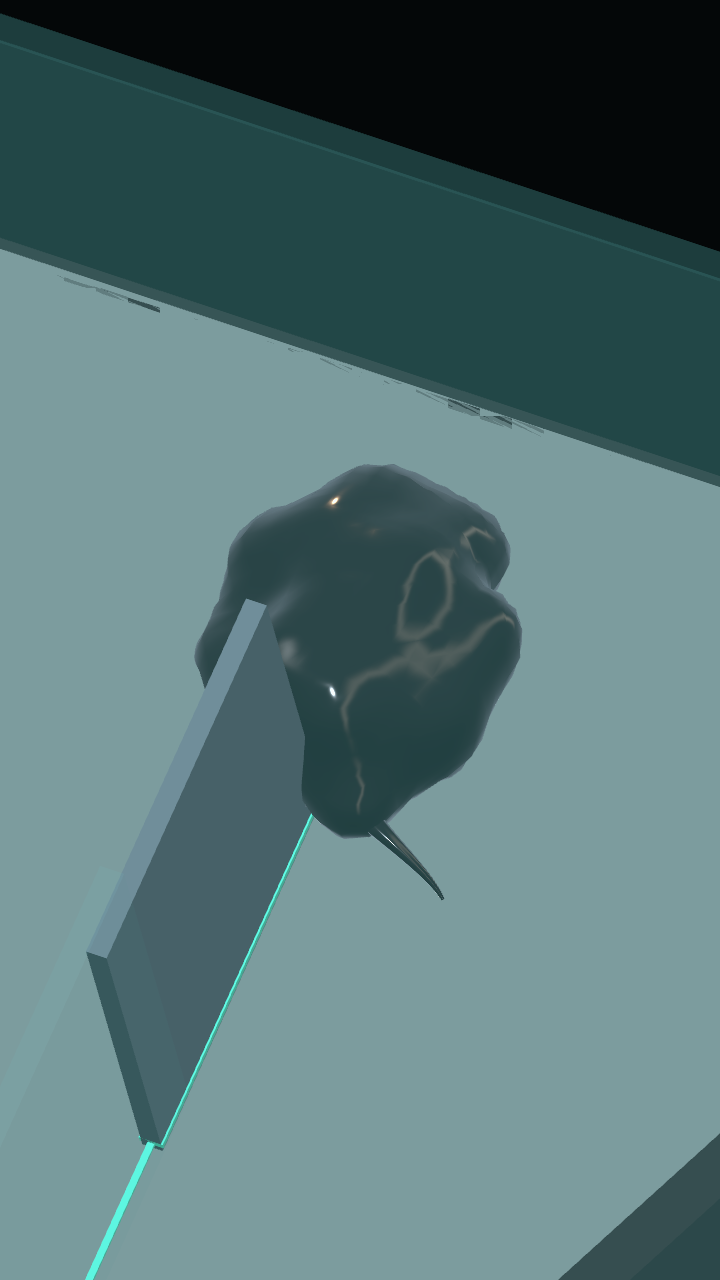
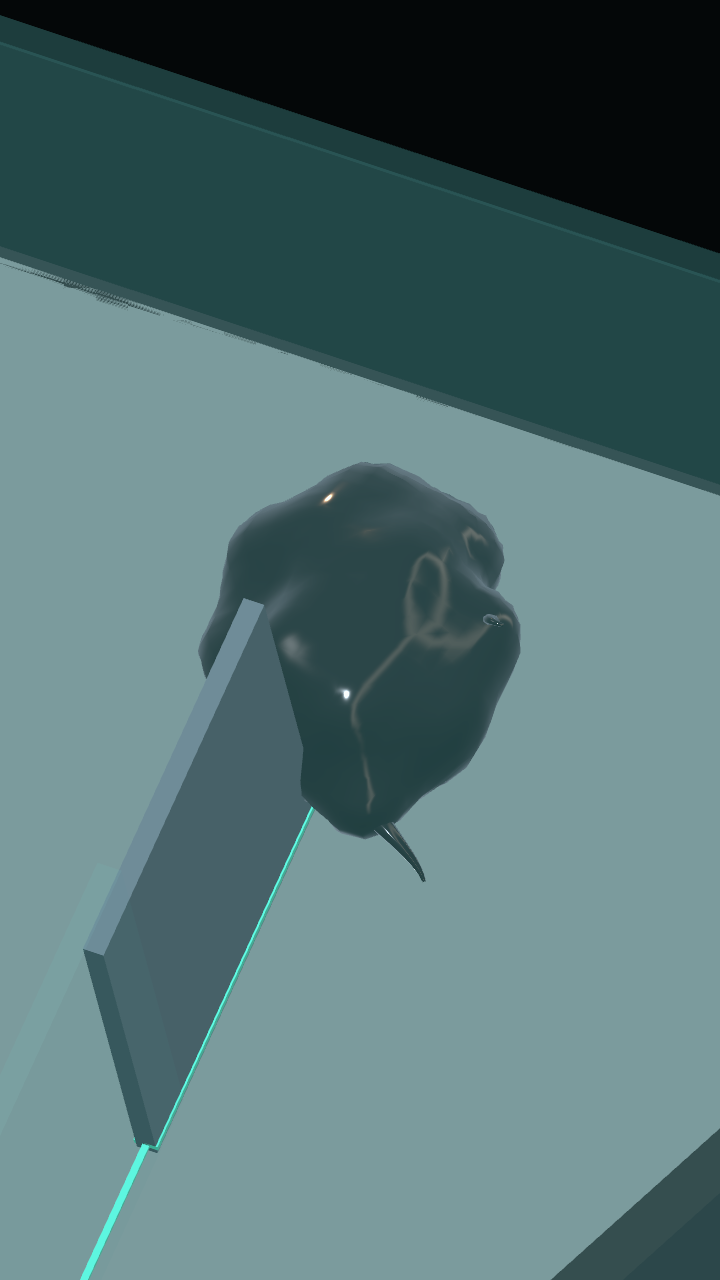
Give Venom raised tendrils and playful idle stretches

diff --git a/Assets/_Game/Venom/Runtime/VenomLifeAnimation.cs b/Assets/_Game/Venom/Runtime/VenomLifeAnimation.cs
@@ -12,7 +12,12 @@ namespace GravityBox.Venom
     /// </summary>
     public sealed class VenomLifeAnimation : MonoBehaviour
     {
-        private const int Arms = 5, Segments = 12, Sides = 7;
+        private const int Arms = 5, Gestures = 4, Segments = 12, Sides = 7;
+        private sealed class Gesture
+        {
+            public float Start, Duration, NextAt;
+            public int Cycle;
+        }
         private sealed class Foot
         {
             public Collider Surface;
@@ -23,14 +28,18 @@ namespace GravityBox.Venom
         private sealed class Fragment
         {
             public readonly Foot[] Feet = new Foot[Arms];
+            public readonly Gesture[] Gestures = new Gesture[VenomLifeAnimation.Gestures];
             public bool Seen;
             public int Count, Peeks;
             public float IdleTime, NextPeek, PeekStart = -100, PeekLength = 3, Head, Moving, Speed, Flow;
+            public float DanceStart = -100, DanceLength = 3.8f, NextDance, Dance, Squeezing;
             public Vector3 Up = Vector3.up, Forward = Vector3.forward, Probe = Vector3.forward, Lag, LagRate;
             public Fragment(int key, float time)
             {
                 NextPeek = 1.8f + Noise(key)*1.2f;
+                NextDance = time+5.2f+Noise(key+71)*1.6f;
                 for (int i = 0; i < Arms; i++) Feet[i] = new Foot { WaitUntil = time+Noise(key+i*19)*.7f };
+                for (int i = 0; i < Gestures.Length; i++) Gestures[i] = new Gesture { Start = -100, NextAt = time+.25f+Noise(key+i*23)*.9f };
             }
         }
         public readonly struct Plant
@@ -54,6 +63,8 @@ namespace GravityBox.Venom
         public float HeadHeight { get; private set; }
         public int TendrilCount { get; private set; }
         public float CrawlAmount { get; private set; }
+        public float DanceAmount { get; private set; }
+        public int RaisedTendrilCount { get; private set; }
         public IReadOnlyList<Plant> PlantedFeet => plants;
 
         public void Initialize(CohesiveOrganism source, VenomLevelController owner)
@@ -74,7 +85,7 @@ namespace GravityBox.Venom
             previousSimulationTime = time;
             clock += dt;
             vertices.Clear(); normals.Clear(); triangles.Clear(); plants.Clear();
-            HeadAmount = HeadHeight = CrawlAmount = 0; TendrilCount = 0;
+            HeadAmount = HeadHeight = CrawlAmount = DanceAmount = 0; TendrilCount = RaisedTendrilCount = 0;
             foreach (var fragment in fragments) if (fragment != null) fragment.Seen = false;
         }
         // Up to six extra field sources form a crest, not another simulated body.
@@ -86,8 +97,11 @@ namespace GravityBox.Venom
             if (state.Count != count)
             {
                 state.Head = state.IdleTime = 0; state.PeekStart = -100;
+                state.Dance = 0; state.DanceStart = -100; state.NextDance = clock+5.2f+Noise(key+71)*1.6f;
                 state.Lag = state.LagRate = Vector3.zero;
                 foreach (var foot in state.Feet) foot.Surface = null;
+                for(int g=0;g<state.Gestures.Length;g++)
+                { state.Gestures[g].Start=-100;state.Gestures[g].NextAt=clock+.25f+Noise(key+g*23)*.9f; }
             }
             state.Count = count;
             Vector3 centre = Vector3.zero, velocity = Vector3.zero, up = Vector3.zero, floorPoint = Vector3.zero;
@@ -121,6 +135,10 @@ namespace GravityBox.Venom
             Vector3 tangentVelocity = Vector3.ProjectOnPlane(velocity,up);
             state.Speed = Mathf.Lerp(state.Speed,tangentVelocity.magnitude,1-Mathf.Exp(-dt*10));
             Vector3 crawlIntent = level.Locomotion != null ? level.Locomotion.IntentForParticle(ids[0]) : Vector3.zero;
+            state.Squeezing = 0;
+            if(level.Locomotion != null)
+                foreach(var fragment in level.Locomotion.Fragments)
+                    if(fragment.Group==organism.Groups[ids[0]])state.Squeezing=fragment.Squeeze.Amount;
             float moving = grounded ? Mathf.Max(Smooth(.010f,.065f,state.Speed),crawlIntent.magnitude*.75f) : 0;
             state.Moving = Mathf.MoveTowards(state.Moving,moving,dt*(grounded ? 4 : 12));
             // The intended direction follows flow/downhill, never the game camera.
@@ -129,11 +147,21 @@ namespace GravityBox.Venom
                 state.Forward = Vector3.Slerp(state.Forward,intent.normalized,1-Mathf.Exp(-dt*5));
             state.Forward = Vector3.ProjectOnPlane(state.Forward,up).normalized;
             if (state.Forward.sqrMagnitude < .1f) state.Forward = Vector3.ProjectOnPlane(box.transform.forward,up).normalized;
-            state.Flow += dt*(.12f + state.Speed*8);
+            state.Flow += dt*(.24f + state.Speed*8);
             if (dt > 0)
                 state.Lag = Vector3.SmoothDamp(state.Lag,Vector3.ClampMagnitude(-tangentVelocity*.055f,.009f),
                     ref state.LagRate,.19f,Mathf.Infinity,dt);
             state.IdleTime = grounded && state.Speed < .024f && crawlIntent.sqrMagnitude < .001f ? state.IdleTime+dt : 0;
+            bool canDance = grounded && count >= 8 && state.Speed < .024f && crawlIntent.sqrMagnitude < .001f && state.Squeezing < .05f;
+            if(canDance && state.IdleTime>.6f && clock>=state.NextDance)
+            {
+                state.DanceStart=clock;state.DanceLength=3.6f+Noise(key+state.Peeks*13)*.8f;
+                state.NextDance=clock+organism.Profile.DanceInterval*Mathf.Lerp(.85f,1.25f,Noise(key+state.Peeks*43));
+            }
+            float danceTime=(clock-state.DanceStart)/state.DanceLength;
+            float danceEnvelope=Smooth(.08f,.32f,danceTime)*(1-Smooth(.73f,1,danceTime));
+            state.Dance=Mathf.MoveTowards(state.Dance,canDance?danceEnvelope:0,dt*5);
+            DanceAmount=Mathf.Max(DanceAmount,state.Dance);
             if (grounded && count >= 8 && state.IdleTime > state.NextPeek)
             {
                 state.PeekStart = clock; state.IdleTime = 0; state.Peeks++;
@@ -143,7 +171,7 @@ namespace GravityBox.Venom
             }
             float peek = (clock-state.PeekStart)/state.PeekLength;
             float envelope = Smooth(0,.28f,peek)*(1-Smooth(.58f,1,peek));
-            float targetHead = grounded && state.Speed < .024f && count >= 8 ? envelope : 0;
+            float targetHead = grounded && state.Speed < .024f && crawlIntent.sqrMagnitude < .001f && count >= 8 && state.Squeezing < .05f ? envelope : 0;
             state.Head = Mathf.MoveTowards(state.Head,targetHead,dt*3.5f);
             if (!grounded) foreach (var foot in state.Feet) foot.Surface = null;
 
@@ -159,30 +187,48 @@ namespace GravityBox.Venom
                 FlowBody(state,key,points,count,centre,up,top,bottom,floorPoint);
                 DrawFeet(state,key,points,ids,count,centre,up,floorPoint,support);
             }
-            if (state.Head < .008f) return count;
+            int physicalCount=count;
+            float expression=Mathf.Max(state.Head,state.Dance);
+            if (expression < .008f)
+            {
+                if(grounded)DrawGestures(state,key,points,physicalCount,centre,up,floorPoint,0);
+                return count;
+            }
             // An off-centre, broad fold gathers upward, hesitates, then rolls back.
             // Its asymmetric bend conveys curiosity without a permanent face/neck.
             Vector3 forward = Vector3.ProjectOnPlane(state.Probe,up).normalized;
             forward = Quaternion.AngleAxis((Smooth(.28f,.48f,peek)-Smooth(.57f,.86f,peek))*26,up)*forward;
             Vector3 anchor = centre + up*(top*.45f) + forward*.006f;
-            float lift = organism.Profile.CuriousHeadLift*state.Head;
+            float desiredLift = Mathf.Max(organism.Profile.CuriousHeadLift*state.Head,organism.Profile.DanceLift*state.Dance);
+            float lift = desiredLift;
             Vector3 direction = (up+forward*.42f).normalized;
             Vector3 side = Vector3.Cross(up,forward).normalized;
             float clearance = lift+.03f;
             for (int p = -1; p <= 1; p++)
                 if (level.RaycastBoundary(anchor+side*(p*.014f),direction,clearance,out var hit)) clearance = hit.distance;
             lift = Mathf.Min(lift,Mathf.Max(0,clearance-.026f));
-            float head = Mathf.Min(state.Head,lift/Mathf.Max(.001f,organism.Profile.CuriousHeadLift));
+            float head = expression*Mathf.Clamp01(lift/Mathf.Max(.001f,desiredLift));
             HeadAmount = Mathf.Max(HeadAmount,head); HeadHeight = Mathf.Max(HeadHeight,lift);
-            if (head < .02f) return count;
+            if (head < .02f)
+            {
+                if(grounded)DrawGestures(state,key,points,physicalCount,centre,up,floorPoint,0);
+                return count;
+            }
             for (int j = 0; j < 6; j++)
             {
                 float t = j/5f;
                 Vector3 source = anchor+up*(lift*t)+forward*(lift*.48f*t*t);
+                float beat=(clock-state.DanceStart)*6.8f;
+                source += (side*Mathf.Sin(beat-t*1.8f)*.012f+forward*Mathf.Sin(beat*.73f-t)*.007f)*state.Dance*t*t;
+                // Keep the growing crest on this side of nearby apparatus.
+                Vector3 growth=source-anchor;
+                if(growth.sqrMagnitude>1e-10f && level.RaycastBoundary(anchor,growth.normalized,growth.magnitude+.015f,out var obstruction))
+                    source=anchor+growth.normalized*Mathf.Max(0,obstruction.distance-.015f);
                 points[count] = transform.InverseTransformPoint(source);
                 supports[count] = Mathf.Lerp(.029f,.018f,t);
                 weights[count++] = head*Mathf.Lerp(.8f,.62f,t);
             }
+            if(grounded)DrawGestures(state,key,points,physicalCount,centre,up,floorPoint,lift*state.Dance);
             return count;
         }
 
@@ -223,10 +269,14 @@ namespace GravityBox.Venom
                 float stretch = 1+state.Moving*.28f;
                 Vector3 shape = forward*(x*(stretch-1)) + (side*z+up*height)*(1/Mathf.Sqrt(stretch)-1);
                 Vector3 shift = state.Lag*upper + up*fold - forward*(lobe*.003f*upper);
+                // The shoulders sway out of phase with the higher crest, keeping
+                // the base planted while the upper tissue dances.
+                float beat=(clock-state.DanceStart)*6.8f;
+                shift += (side*Mathf.Sin(beat-height*18)*.008f+up*Mathf.Sin(beat*2)*.003f)*upper*state.Dance;
                 // A crest borrows its shoulder shape from the body rather than
                 // looking like a sphere on a separately inflated stalk.
                 shift += forward*(state.Head*.006f*upper)-up*(state.Head*.002f*(1-upper));
-                deformation[i] = Vector3.ClampMagnitude(shape+shift,.014f);
+                deformation[i] = Vector3.ClampMagnitude(shape+shift,.014f)*(1-state.Squeezing*.85f);
                 average += deformation[i];
             }
             average /= count;
@@ -314,6 +364,79 @@ namespace GravityBox.Venom
                 TendrilCount++;
             }
         }
+        private void DrawGestures(Fragment state, int key, Vector3[] points, int count,
+            Vector3 centre, Vector3 up, Vector3 floor, float liftedBody)
+        {
+            int limbs=count<8?2:Gestures;
+            for(int arm=0;arm<limbs;arm++)
+            {
+                Gesture gesture=state.Gestures[arm];
+                if(dt>0 && clock>=gesture.NextAt && state.Squeezing<.2f)
+                {
+                    gesture.Cycle++;gesture.Start=clock;
+                    gesture.Duration=2.1f+Noise(key+arm*37+gesture.Cycle*19)*1.1f;
+                    gesture.NextAt=clock+gesture.Duration+.3f+Noise(key+arm*17+gesture.Cycle*7)*.8f;
+                }
+                float age=(clock-gesture.Start)/Mathf.Max(.1f,gesture.Duration);
+                float growth=Smooth(0,.22f,age)*(1-Smooth(.72f,1,age));
+                growth=Mathf.Max(growth,state.Dance*.95f)*(1-state.Squeezing);
+                if(growth<.035f)continue;
+                int seed=key*71+arm*113+gesture.Cycle*17;
+                float angle=arm*137.5f+(Noise(seed)-.5f)*55;
+                Vector3 direction=Quaternion.AngleAxis(angle,up)*state.Forward;
+                Vector3 side=Vector3.Cross(up,direction).normalized;
+                int rootId=0;float best=float.NegativeInfinity;
+                for(int i=0;i<count;i++)
+                {
+                    Vector3 offset=transform.TransformPoint(points[i])-centre;
+                    float score=Vector3.Dot(offset,direction)*.65f+Vector3.Dot(offset,up)*.8f;
+                    if(score>best){best=score;rootId=i;}
+                }
+                Vector3 origin=transform.TransformPoint(points[rootId])+direction*.003f;
+                Vector3 shoulder=centre+up*(liftedBody*.28f)+direction*.012f;
+                origin=Vector3.Lerp(origin,shoulder,state.Dance*.6f);
+                float reach=organism.Profile.RaisedTendrilReach*growth*Mathf.Lerp(.72f,1.1f,Noise(seed+11));
+                reach*=Mathf.Lerp(1,.58f,state.Moving)*(1+state.Dance*.3f)*Mathf.Sqrt(Mathf.Clamp(count/32f,.2f,1));
+                float phase=clock*(4.3f+arm*.57f)+Noise(seed+3)*6.28f;
+                phase+=state.Dance*Mathf.Sin((clock-state.DanceStart)*6.8f-arm*.7f)*1.3f;
+                Vector3 a=up*(reach*.28f)+direction*(reach*.27f);
+                Vector3 b=up*(reach*.92f)+side*(Mathf.Sin(phase-.8f)*reach*.4f)-direction*(reach*.15f);
+                Vector3 c=up*(reach*(.72f+Mathf.Sin(phase*.81f)*.14f))+
+                    direction*(reach*(.2f+Mathf.Cos(phase)*.26f))+side*(Mathf.Sin(phase)*reach*.38f);
+                float thickness=1.15f*Mathf.Sqrt(growth)*Mathf.Sqrt(Mathf.Clamp(count/32f,.3f,1));
+                bool fits=false;
+                for(int attempt=0;attempt<4;attempt++)
+                {
+                    if(CurveFits(origin,origin+a,origin+b,origin+c,thickness)){fits=true;break;}
+                    a*=.68f;b*=.68f;c*=.68f;thickness*=.85f;
+                }
+                if(!fits)continue;
+                Tube(origin,origin+a,origin+b,origin+c,up,floor,thickness);
+                RaisedTendrilCount++;TendrilCount++;
+            }
+        }
+
+        private bool CurveFits(Vector3 p0,Vector3 p1,Vector3 p2,Vector3 p3,float thickness)
+        {
+            Vector3 previous=p0;
+            for(int step=0;step<=Segments;step++)
+            {
+                float t=step/(float)Segments,u=1-t;
+                Vector3 p=u*u*u*p0+3*u*u*t*p1+3*u*t*t*p2+t*t*t*p3;
+                if(step>0 && (p-previous).sqrMagnitude>1e-10f && level.SegmentBlocked(previous,p))return false;
+                float radius=Mathf.Lerp(.006f,.00055f,Mathf.Pow(t,.55f))*thickness+.001f;
+                // Both the swept centreline and the tube's thickness need room.
+                // Shorten a flourish when close to glass, a blade or the cover.
+                for(int axis=0;axis<3;axis++)for(int sign=-1;sign<=1;sign+=2)
+                {
+                    Vector3 direction=axis==0?Vector3.right:axis==1?Vector3.up:Vector3.forward;
+                    if(level.RaycastBoundary(p,direction*sign,radius,out _))return false;
+                }
+                previous=p;
+            }
+            return true;
+        }
+
         private void Tube(Vector3 p0, Vector3 p1, Vector3 p2, Vector3 p3, Vector3 up, Vector3 floor, float thickness)
         {
             int first = vertices.Count;
@@ -323,7 +446,7 @@ namespace GravityBox.Venom
                 Vector3 p = u*u*u*p0 + 3*u*u*t*p1 + 3*u*t*t*p2 + t*t*t*p3;
                 Vector3 tangent = (3*u*u*(p1-p0)+6*u*t*(p2-p1)+3*t*t*(p3-p2)).normalized;
                 Vector3 right = Vector3.Cross(tangent,up).normalized;
-                if (right.sqrMagnitude < .1f) right = Vector3.Cross(tangent,Vector3.right).normalized;
+                if (right.sqrMagnitude < .1f) right = Vector3.Cross(tangent,Mathf.Abs(tangent.x)<.8f?Vector3.right:Vector3.forward).normalized;
                 Vector3 binormal = Vector3.Cross(right,tangent).normalized;
                 float radius = Mathf.Lerp(.006f,.00055f,Mathf.Pow(t,.55f))*thickness;
                 p += up*Mathf.Max(0,radius-Vector3.Dot(p-floor,up));

diff --git a/Assets/_Game/Tests/PlayMode/VenomPrototypeTests.cs b/Assets/_Game/Tests/PlayMode/VenomPrototypeTests.cs
@@ -241,13 +241,16 @@ namespace GravityBox.Tests
         [Test] public void IdleHeadLooksAroundThenRetractsWithoutMovingPhysics()
         {
             var matter=level.Organism;var surface=matter.GetComponent<VenomSurface>();var life=matter.GetComponent<VenomLifeAnimation>();
-            bool raised=false,retracted=false;float peak=0;
+            bool raised=false,retracted=false;float peak=0,dance=0;int raisedArms=0;bool capturedDance=false;
             for(int frame=0;frame<300;frame++)
             {
                 Steps(4);
                 var positions=matter.Bodies.Select(b=>b.position).ToArray();
                 var velocities=matter.Bodies.Select(b=>b.linearVelocity).ToArray();
                 surface.Rebuild(false);
+                dance=Mathf.Max(dance,life.DanceAmount);raisedArms=Mathf.Max(raisedArms,life.RaisedTendrilCount);
+                if(!capturedDance && life.DanceAmount>.9f && life.HeadHeight>.05f)
+                { Capture("life-03-dancing");capturedDance=true; }
                 CollectionAssert.AreEqual(positions,matter.Bodies.Select(b=>b.position).ToArray(),"Curiosity must not move physical nodes.");
                 CollectionAssert.AreEqual(velocities,matter.Bodies.Select(b=>b.linearVelocity).ToArray(),"No decorative animation force.");
                 if(life.HeadHeight>peak)
@@ -261,6 +264,9 @@ namespace GravityBox.Tests
             }
             Assert.That(peak,Is.GreaterThan(.025f),"An idle creature should visibly lift a small head.");
             Assert.That(retracted,Is.True,"The head must return to the body between looks.");
+            Assert.That(dance,Is.GreaterThan(.9f),"Idle performance should include a visible stretch and dance.");
+            Assert.That(raisedArms,Is.GreaterThanOrEqualTo(2),"Several upper tendrils should wave above the body.");
+            Assert.That(capturedDance,Is.True);
             Assert.That(matter.FragmentCount,Is.EqualTo(1));Assert.That(matter.TotalMass,Is.EqualTo(.096f).Within(.000001f));
         }
 
@@ -324,6 +330,7 @@ namespace GravityBox.Tests
             level.View.transform.position=cameraPosition;
             level.ResetExperiment();surface.Rebuild(false);
             Assert.That(life.HeadAmount,Is.Zero);Assert.That(life.TendrilCount,Is.Zero);Assert.That(life.PlantedFeet.Count,Is.Zero);
+            Assert.That(life.DanceAmount,Is.Zero);Assert.That(life.RaisedTendrilCount,Is.Zero);
         }
     }
 }

diff --git a/Assets/_Game/Tests/PlayMode/VenomControlTests.cs b/Assets/_Game/Tests/PlayMode/VenomControlTests.cs
@@ -312,6 +312,36 @@ namespace GravityBox.Tests
             Assert.That(flow,Is.GreaterThan(.5f));Assert.That(level.Organism.MergeCount,Is.GreaterThan(0));
             Assert.That(level.Organism.FragmentCount,Is.EqualTo(1));Assert.That(level.Lost,Is.False);
         }
+        [UnityTest] public IEnumerator ExpressiveIdleYieldsToInputAndSlit()
+        {
+            yield return Load(3);
+            var surface=level.Organism.GetComponent<VenomSurface>();
+            var life=level.Organism.GetComponent<VenomLifeAnimation>();
+            for(int frame=0;frame<300 && life.DanceAmount<.9f;frame++){Steps(4);surface.Rebuild(false);}
+            Assert.That(life.DanceAmount,Is.GreaterThan(.8f));
+            level.Locomotion.SetInput(Vector3.left);
+            for(int frame=0;frame<20;frame++){Steps(4);surface.Rebuild(false);}
+            Assert.That(life.DanceAmount,Is.Zero);Assert.That(life.HeadAmount,Is.Zero);
+            level.Locomotion.SetInput(Vector3.zero);Go(-.19f,.245f);Go(-.215f,-.035f);
+            level.Locomotion.SetInput(Vector3.back);
+            for(int frame=0;frame<50;frame++){Steps(4);surface.Rebuild(false);}
+            Assert.That(level.Locomotion.Selected.Squeeze.Amount,Is.GreaterThan(.95f));
+            Assert.That(life.DanceAmount,Is.Zero);Assert.That(life.RaisedTendrilCount,Is.Zero);
+            // Near the actual left glass, raised flourishes must fit in the box.
+            level.Locomotion.SetInput(Vector3.zero);
+            for(int frame=0;frame<180;frame++)
+            {
+                Steps(4);surface.Rebuild(false);
+                var filaments=level.Organism.GetComponentsInChildren<MeshFilter>().First(m=>m.name=="Transient contact filaments");
+                foreach(var vertex in filaments.sharedMesh.vertices)
+                {
+                    Vector3 p=level.Rotation.transform.InverseTransformPoint(filaments.transform.TransformPoint(vertex));
+                    Assert.That(p.x,Is.InRange(-.251f,.251f));Assert.That(p.y,Is.InRange(-.068f,.074f));
+                    Assert.That(p.z,Is.InRange(-.321f,.321f));
+                }
+            }
+        }
+
         private void Capture(string name)
         {
             string directory=Environment.GetEnvironmentVariable("VENOM_CAPTURE_DIR");

diff --git a/Assets/_Game/Venom/Runtime/VenomProfile.cs b/Assets/_Game/Venom/Runtime/VenomProfile.cs
@@ -27,6 +27,9 @@ namespace GravityBox.Venom
         public float IdleBulge = .0036f;
         public float CuriousHeadLift = .041f;
         public float TendrilReach = .034f;
+        public float RaisedTendrilReach = .052f;
+        public float DanceLift = .064f;
+        [Min(2)] public float DanceInterval = 10f;
         public PhysicsMaterial Contact;
         public Material Skin;
     }

diff --git a/README.md b/README.md
@@ -20,6 +20,8 @@ Màn 02/03 có **luồn khe chủ động**: giữ hướng vào khe để mô t
 
 Sinh vật dùng hạt vật lý liên kết nhớt/dẻo và bề mặt metaball liên tục. Đây là mô hình vật chất mềm phục vụ thử gameplay, chưa phải solver chất lỏng bảo toàn thể tích. Nội dung 23 bàn bi thép bên dưới vẫn có thể mở qua scene `Gameplay.unity`; build Venom dùng scene riêng.
 
+Sinh vật có thêm **bốn xúc tu giơ lên, cuộn và quẫy lệch nhịp**; thỉnh thoảng vươn thân cao rồi lắc lư như nhảy múa. Bắt đầu bò thì thu động tác lớn; đang luồn khe thì giữ hình dáng gọn. [Xem animation 10 giây](Docs/Images/VenomLife/idle.gif).
+
 Sinh vật có animation theo hướng symbiote: thân dồn và cuộn lệch, mô phía trên có độ trễ khi trượt, thỉnh thoảng dựng một đỉnh mềm để thăm dò. Các sợi bám mọc độc lập và căng mảnh rồi thu lại. Animation đọc vận tốc, tiếp xúc thật và ý định bò ở màn 02/03. Lực bám–kéo do hệ locomotion riêng tạo ở các hạt có tiếp xúc; mesh/xúc tua chỉ biểu diễn hình ảnh, không thay đổi lượng vật chất cần thoát. [Tư liệu và cách áp dụng](Docs/VENOM_MOTION_STUDY.md) · [Ảnh/animation cận cảnh](Docs/Images/VenomLife/README.md).
 
 Bản cập nhật tiếp xúc sàn: cửa và lưỡi chém có chặn dưới đúng mặt sàn; skin không phình xuyên phần sàn đặc và cập nhật theo từng frame. Animation nhanh hơn **1,5×**, biên độ tăng khoảng **20–30%**. Đóng bản macOS đang chạy rồi mở lại app để nhận bản build mới. Kiểm chứng: rơi 2/5/10 m/s, lật hộp nhiều trục, chặn cơ cấu và đường giải thoát đủ vật chất.

diff --git a/Docs/Images/VenomLife/README.md b/Docs/Images/VenomLife/README.md
@@ -1,11 +1,12 @@
-# Venom — nếp khối và sợi bám
+# Venom — xúc tu, vươn thân và nhảy múa
 
-Capture cận cảnh từ PlayMode/PhysX ngày 10/09/2026 sau lần chỉnh tiếp xúc sàn và tăng nhịp diễn xuất 1,5×. Camera phóng gần để kiểm tra chi tiết, không phải kích thước mặc định trong app. Không đặt lại vị trí hạt để tạo tư thế.
+Capture cận cảnh từ PlayMode/PhysX ngày 10/09/2026 sau lần thêm bốn xúc tu phía trên và động tác vươn thân–lắc lư, dùng nhịp diễn xuất 1,5×. Camera phóng gần để kiểm tra chi tiết, không phải kích thước mặc định trong app. Không đặt lại vị trí hạt để tạo tư thế.
 
-- [Yên, dồn vai lên rồi thu lại — 10 giây](idle.gif).
+- [Yên, giơ xúc tu và vươn thân nhảy múa — 10 giây](idle.gif).
 - [Trượt ban đầu, sợi bám và nhả khi dừng ở cơ cấu — 3,4 giây](moving.gif).
 - [Hình đỉnh mềm lúc thăm dò](life-01-curious.png).
 - [Hình sợi tiếp xúc ở rìa khối](life-02-gripping.png).
+- [Hình vươn thân và giơ xúc tu](life-03-dancing.png).
 
 GIF dùng 10 frame/giây theo thời gian mô phỏng, không đại diện FPS thiết bị. Chuyển động ingame dựng hình mỗi frame, mục tiêu 60 fps. Chuỗi trượt ở đây kiểm tra tiếp xúc và nhả, không phải đường giải toàn màn.
 
